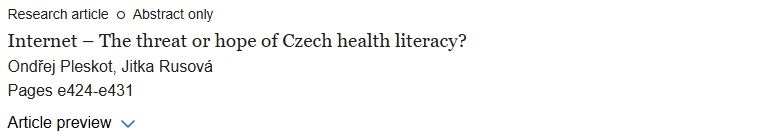
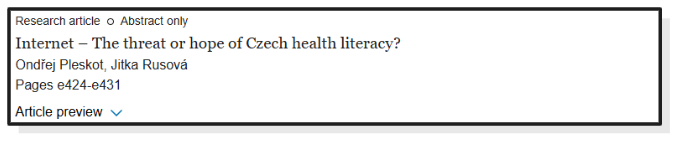
Correctifs ScienceDirect

Changed region(s): [[0.0, 0.0292, 0.9912, 0.9635]]

diff --git a/FmoduleDroit.md b/FmoduleDroit.md
@@ -290,8 +290,6 @@ Pour aller encore plus loin dans le filtrage, vous pouvez ensuite chercher dans 
 
 ##### L'accès au texte intégral sur ScienceDirect
 
-***correctifs images à appliquer***<!-- style="color: red" -->
-
 Si vous avez suivi les étapes de filtrages des publications à la page précédente, seules celles auxquelles vous avez accès en totalité, ou presque, s'affichent.
 
 Trois types d'accès sont mentionnés :
